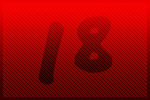
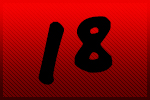
18

Changed region(s): [[0.48, 0.15, 0.7467, 0.75], [0.24, 0.21, 0.4267, 0.84]]

diff --git a/18.html b/18.html
@@ -1,0 +1,38 @@
+<html>
+<title> Knuffis Super Barcelonakalender </title>
+<style>
+input[type=text] {
+	width: 5%;
+	padding: 12px 24px;
+	margin: 8px 0;
+	box-sizing: border-bow;
+	background-color: white;
+	color: black;
+	font-weight: bold;
+	text-align: center;
+	}
+input[type=text]:focus {
+	background-color: lightblue;
+	}
+
+input[type=submit] {
+	background-color: lightblue;
+	border-radius: 3px;
+	padding: 12px 20px;
+	margin: 4px 2px;
+	color: white;
+	font-weight: bold;
+	text-align: center;
+	text-shadow: 1px 1px 1px #000000;
+	}
+
+	
+
+</style>
+<body background="images/bg2.jpg">
+<center>
+<img src="images/gelb.png" alt="gelb">
+</center>
+
+</body>
+</html>

diff --git a/index.html b/index.html
@@ -56,7 +56,7 @@ body {
 <a href="6.html">
   <img src="images/advent/6.jpg" alt="6">
 </a> 
-<a>
+<a href="18.html">
   <img src="images/advent/18.jpg" alt="18">
 </a> 
 <a href="12.html">
